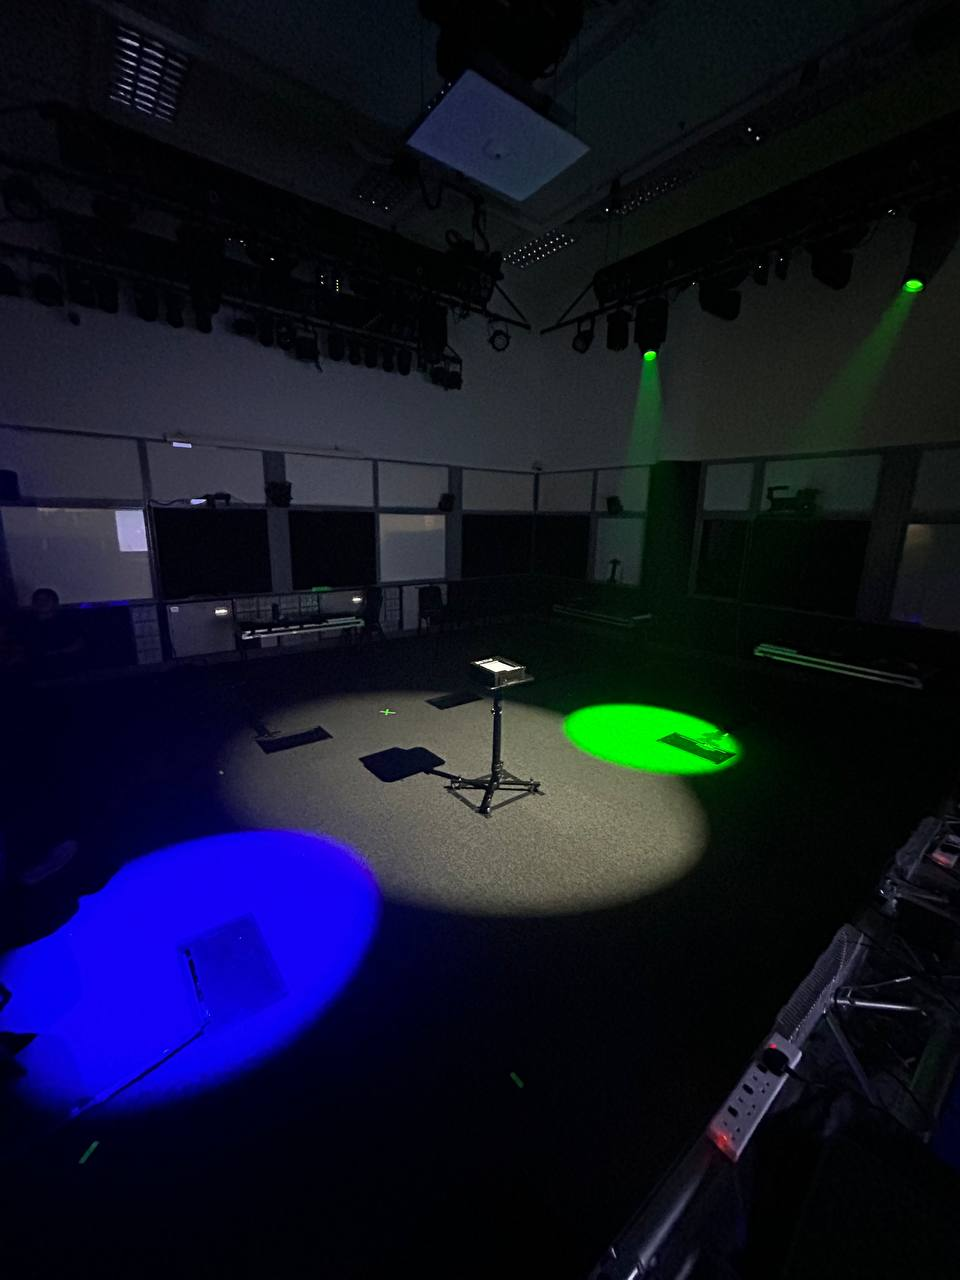
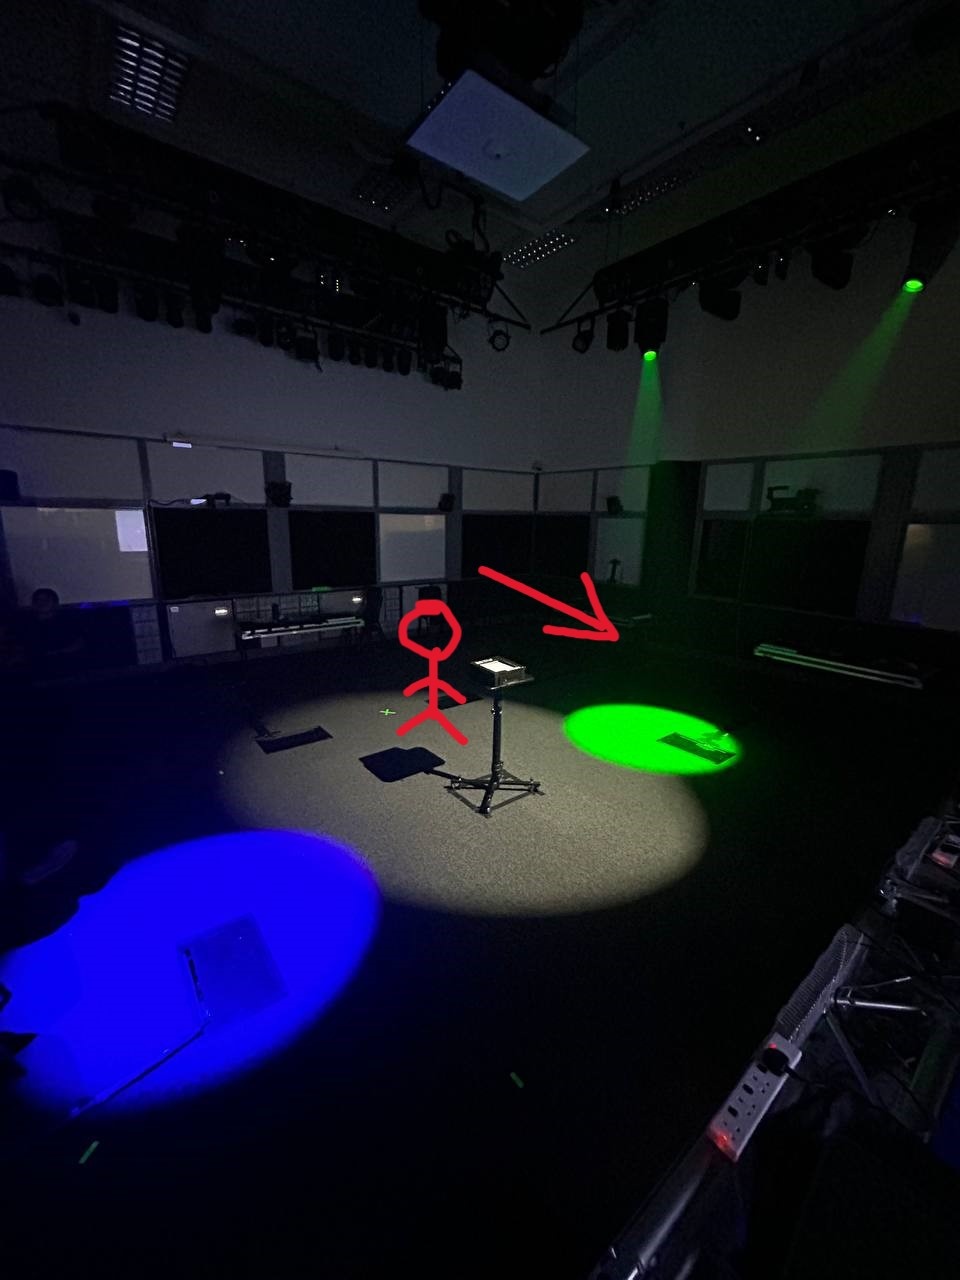
e

Changed region(s): [[0.4062, 0.4688, 0.5, 0.5938], [0.5625, 0.4375, 0.6562, 0.5], [0.5, 0.4375, 0.5625, 0.4688]]

diff --git a/Final_Presentation/GrandMA3/grandma3.md b/Final_Presentation/GrandMA3/grandma3.md
@@ -13,7 +13,8 @@ GrandMA3
 - [Overview](#overview) 📃
 - [Files In Use](#files-in-use) 📂
 - [Master GrandMA3 show file](#Master-ShowFile) 📄
-- [Picture Assets](#Pictures)
+- [Equipment](#equipment) 🖥
+- [Pictures](#Pictures) 🖼
 
 ## <a id="overview"> Overview 📃</a>
 
@@ -26,10 +27,18 @@ It's the third generation of the popular grandMA lighting console series, offeri
 
 This the GrandMA3 show file that runs on the Master Station Laptop. It contains not just the pre-programmed lighting sequences and patched lighting fixtures for Station 5, but also the other 4 stations and also the light and laser show.
 
-## <a id="Pictures"> Picture Assets </a>
+## <a id="equipment"> Equipment </a> 🖥
 
-This is a picture of the lighting sequence for <b>Easy Level</b> of our station. The lights are pointed onto the floor to help guide players that are playing the game. White light is also shine to help players to see.
+Our lighting setup consists of a total 8 Ayrton MiniPanels, 8 Ayrton MagicBlades, 8 Ayrton Mistrals and 8 Showline ePar 180s, 2 each for each side of the room. Additionally, we have a Le Maitre GeForce 3 Smoke Machine and a generic DMX fan connected to the grandMA3 console for our lose sequence.
+
+For our laser show, we have a Le Maitre MVS Hazer to display the lasers clearer.
+
+## <a id="Pictures"> Pictures </a> 🖼
+
+This is a picture of the lighting sequence for <b>Easy Level</b> of our station. The lights are pointed onto the floor to help guide players that are playing the game. White light is also shine to help players to see. The stick figure shows where the player would be when playing, as well as the direction to be facing.
+
 ![](Assets/EasyModeLighting.jpg)
 
-This is a picture of the lighting sequence for <b>Hard Level</b> of our station. The lights are pointed onto the floor to help guide players that are playing the game. White light is also shine to help players to see.
-![](Assets/EasyModeLighting.jpg)
+This is a picture of the lighting sequence for <b>Hard Level</b> of our station. The lights are pointed onto the floor to help guide players that are playing the game. White light is also shine to help players to see. The stick figure once again shows where the player would be when playing, as well as the direction to be facing.
+
+![](Assets/HardModeLighting.jpg)

diff --git a/Final_Presentation/FinalPresentation.md b/Final_Presentation/FinalPresentation.md
@@ -10,6 +10,7 @@
 ### Table Of Contents 📚
 
 - [Overview](#overview) 📃
+- [Backstory](#backstory) 📖
 - [Getting Started!](#getting-started) 🔛
 - [Software & Hardware Setup](#setup) ⚙
 
@@ -20,6 +21,16 @@ We will be using a Master Station shared with others. The Master Station hosts 3
 
 The final demonstration will feature a full run through of our station. This includes an introduction, 2 difficulty levels, followed by a win/lose sequence. Once the game ends, we are to segway into our laser show as a wrap up. 
 
+## <a id="backstory"> Backstory 📖</a>
+This is the lore of our station (and the previous one too!)
+
+For some background, the previous station have you as a ninja running away from some henchmen. Approaching our station, you have escaped them, but ventured out so far that you got lost into unknown territory. Fortunately, a fellow ninja has come to your help with the Ninja Pulse™.
+
+The Ninja Pulse™ is capable of translating sounds into directions, and you're supposed to listen out for a special type of shuriken that will be heard a certain amount of times from your left and right (and front and back on Hard Mode). Once the sound stops, you are to remember the order AND amount of shurikens played, and input them accordingly onto the Ninja Pulse™.
+
+If you win, then congratulations! You have made your way out! 😀
+
+If you lose, you'll be punished with smoke as the fog begins to settle in your area. 😥
 
 ## <a id="getting-started"> Getting Started 🔛</a>
 ### Installation Guide

diff --git a/Final_Presentation/L-ISA_Controller/L-ISA.md b/Final_Presentation/L-ISA_Controller/L-ISA.md
@@ -22,7 +22,7 @@ L-ISA Controller
 
 L-ISA Controller is a desktop spatial object mixing audio processing tool for operating multichannel audio output with L-ISA Processors.
 
-In our project, it is used for audio effects such as pan, distance, width, etc.
+In our game, it is used for audio effects such as our sound cues appearing from the front, back, left, and right side.
 
 L-ISA Controller uses spatial metadata from L-ISA Processor (MTC timecode sync through MIDI with Reaper DAW).
 
@@ -37,3 +37,7 @@ This the the L-ISA Controller file that runs on the Master Station Laptop. It co
 For reference, the picture below shows the snapshots with the MIDI timecode time that our team used.
 
 ![](Assets/TeamC_L-ISA_Controller.png)
+
+In our game, many snapshots have the effect of the sound "rotating around" the player (i.e. the sound of a bird flapping, moving from east to west), which greatly give an immersive auditory experience if your eyes were closed.
+
+This also gives us the ability to position our sound cue the player should listen out for (the shuriken) to be heard from the left, right, front or back. Without L-ISA, we would be limited to panning left and right only.

diff --git a/Final_Presentation/Laser_Sequence/Laser.md b/Final_Presentation/Laser_Sequence/Laser.md
@@ -20,6 +20,7 @@ Laser Sequence
   - [Electrical Setup](#hardware-electrical) ⚡
 - [Software Overview](#software) 💻
   - [Song Choice](#software-song) 🎵
+  - [NeoPixel Lighting](#software-np) 💡
 
 </b>
 
@@ -125,7 +126,7 @@ Your browser does not support the audio element.
 
 Song playback not showing up?  Click [here](https://github.com/uselesskcid/EGL314-Project-S.O.N.I.C-Team-C-POC/blob/main/Final_Presentation/Laser_Sequence/laser_assets/Laser_Sequence_Song.wav) to navigate to the song.
 
-### <a id="software-np"> Neopixel Lighting </a>
+### <a id="software-np"> Neopixel Lighting 💡</a>
 
 The NeoPixel lighting works by creating a client for both strips on the truss and balloon, followed by a function that triggers colours through RGB coding.
 ```
